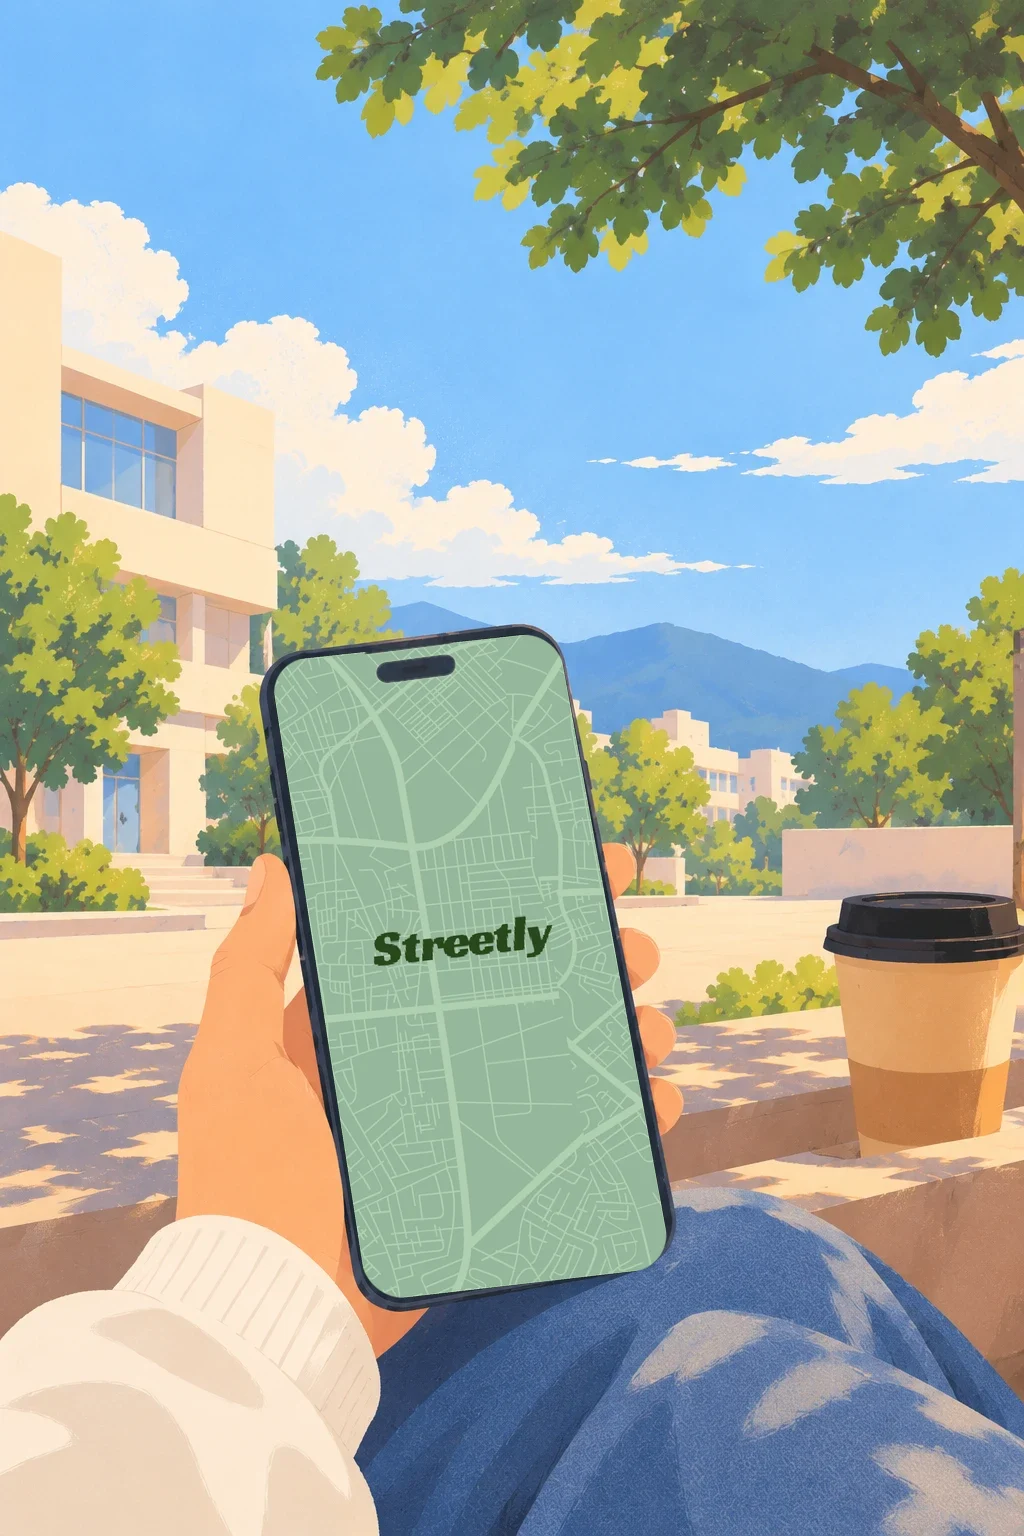
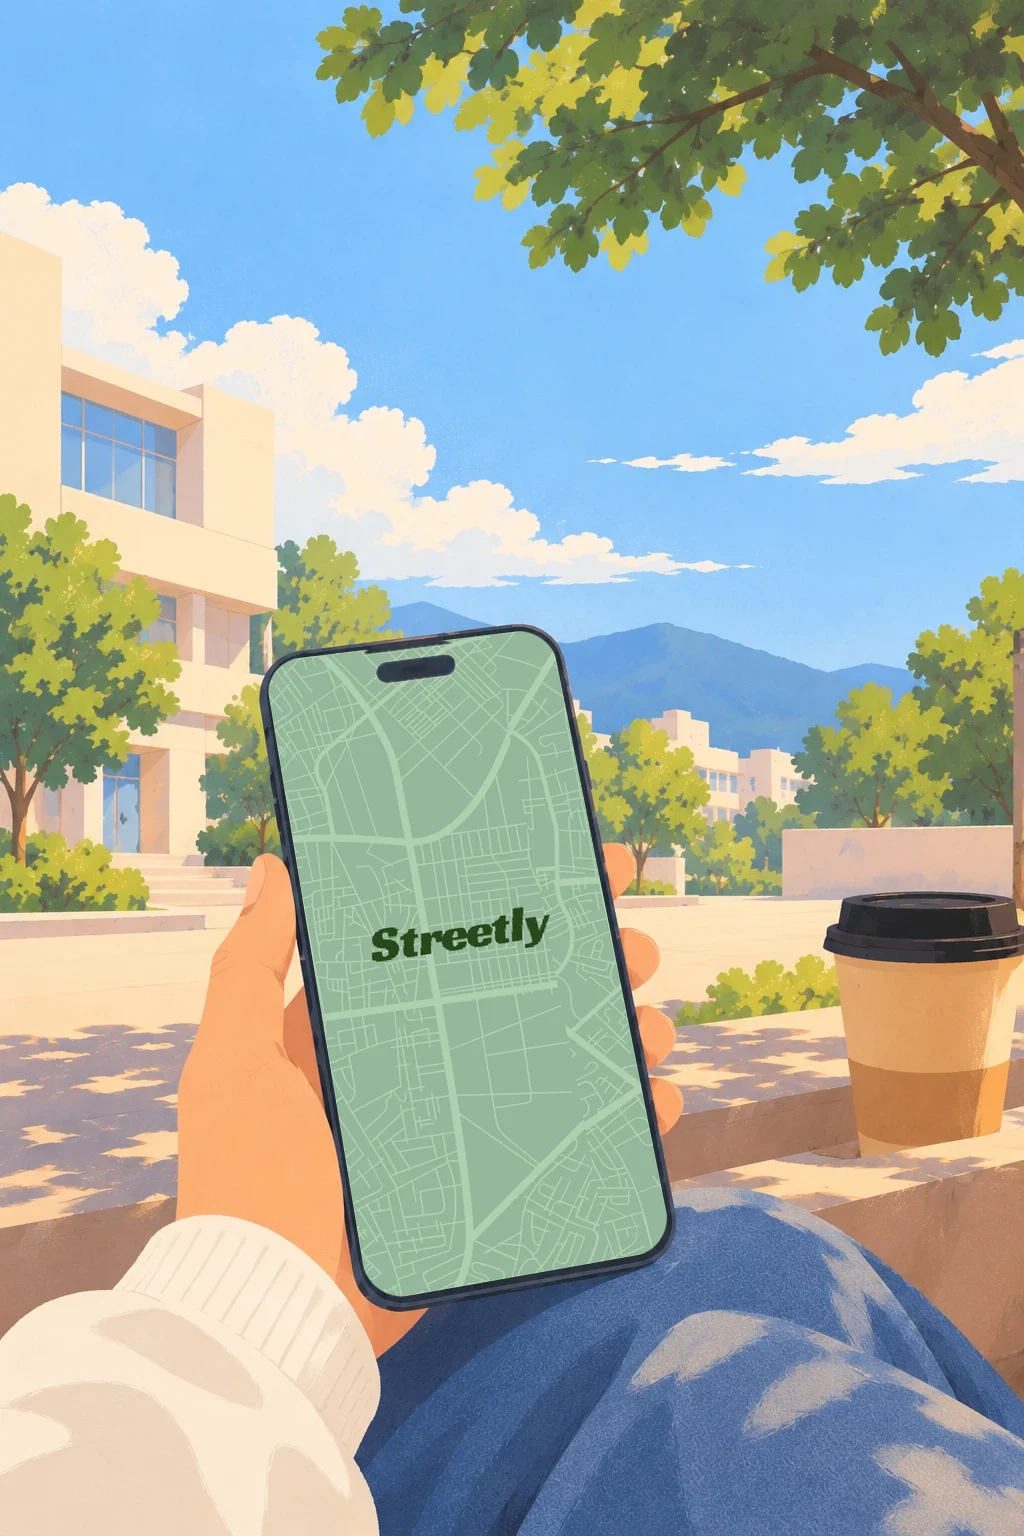
Streetly card: smaller, new title, screen fitted to the phone's true angle

diff --git a/css/style.css b/css/style.css
@@ -110,7 +110,7 @@ em { font-style: italic; }
 .card-title { display: inline-block; margin-top: 10px; font-size: 22px; line-height: 1.1; letter-spacing: -0.2px; position: relative; }
 .card-title::after { content: ""; position: absolute; left: 0; right: 0; bottom: -1px; height: 1px; background: var(--red); transform: scaleX(0); transform-origin: left; transition: transform 0.5s var(--ease); }
 .card:hover .card-title::after { transform: scaleX(1); }
-.scatter.s1 { left: 4%; top: 0; width: 31%; }
+.scatter.s1 { left: 9%; top: 0; width: 18.6%; }
 .scatter.s2 { left: 52%; top: 10vw; width: 41%; }
 .scatter.s3 { left: 19%; top: 62vw; width: 29%; }
 

diff --git a/index.html b/index.html
@@ -41,7 +41,7 @@
   
   <a class="card scatter s1" href="/projects/streetly" data-grow>
     <span class="card-img"><img src="/img/streetly-card.webp" alt="Streetly" style="object-position:left center" loading="lazy" /></span>
-    <span class="card-title">Streetly</span>
+    <span class="card-title">STREETLY - UI/UX Design</span>
   </a>
   <a class="card scatter s2" href="/projects/railway-network" data-grow>
     <span class="card-img"><img src="/img/railway-cover.webp" alt="Railway Network" style="object-position:center" loading="lazy" /></span>
